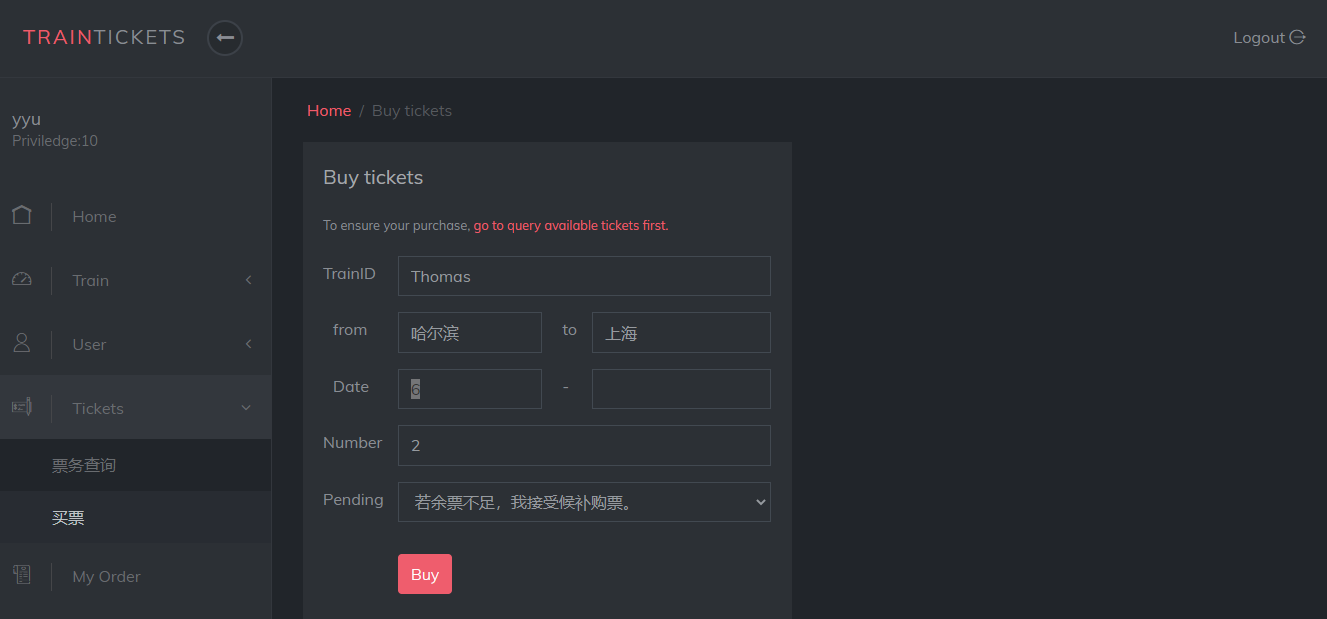
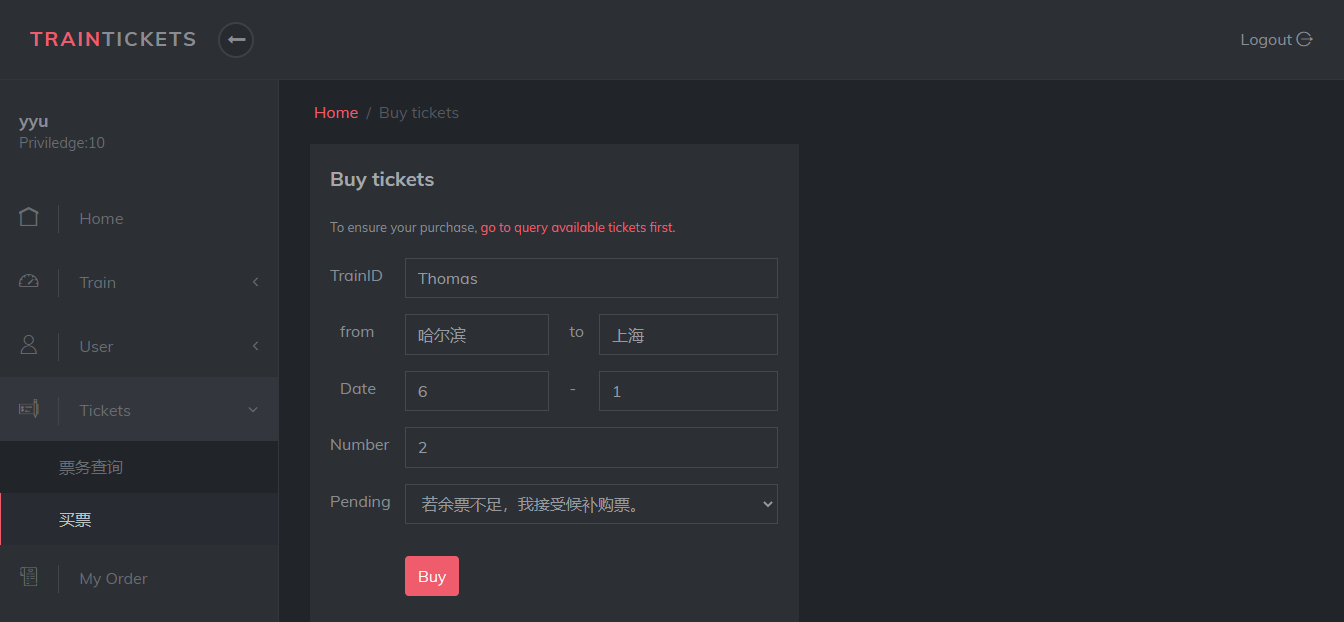
modify README

diff --git a/README.md b/README.md
@@ -187,7 +187,7 @@
  
 ![avatar](/img/query_ticket_result.png)
 
-* 点击Buy，跳转至buy_tickets页面，车站名自动填充，日期可选范围更改为该旅程可行的时间范围（也可以通过点击sidebar中的Tickets->买票，自主进入buy_tickets页面）
+* 点击Buy，跳转至buy_tickets页面，车站名和日期会自动填充（也可以通过点击sidebar中的Tickets->买票，自主进入buy_tickets页面）
 
 ![avatar](/img/query_to_buy.png)
 
